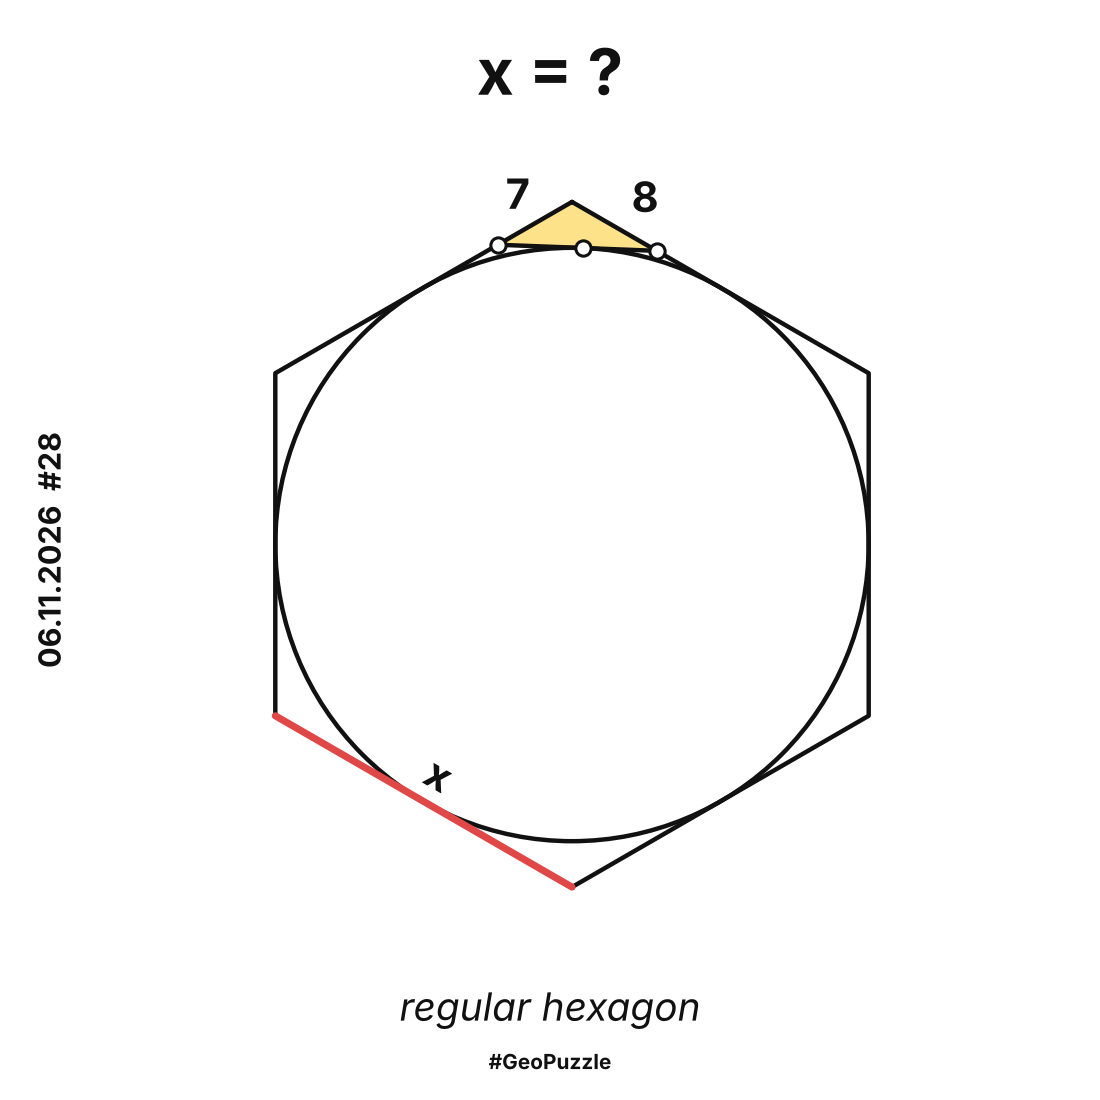
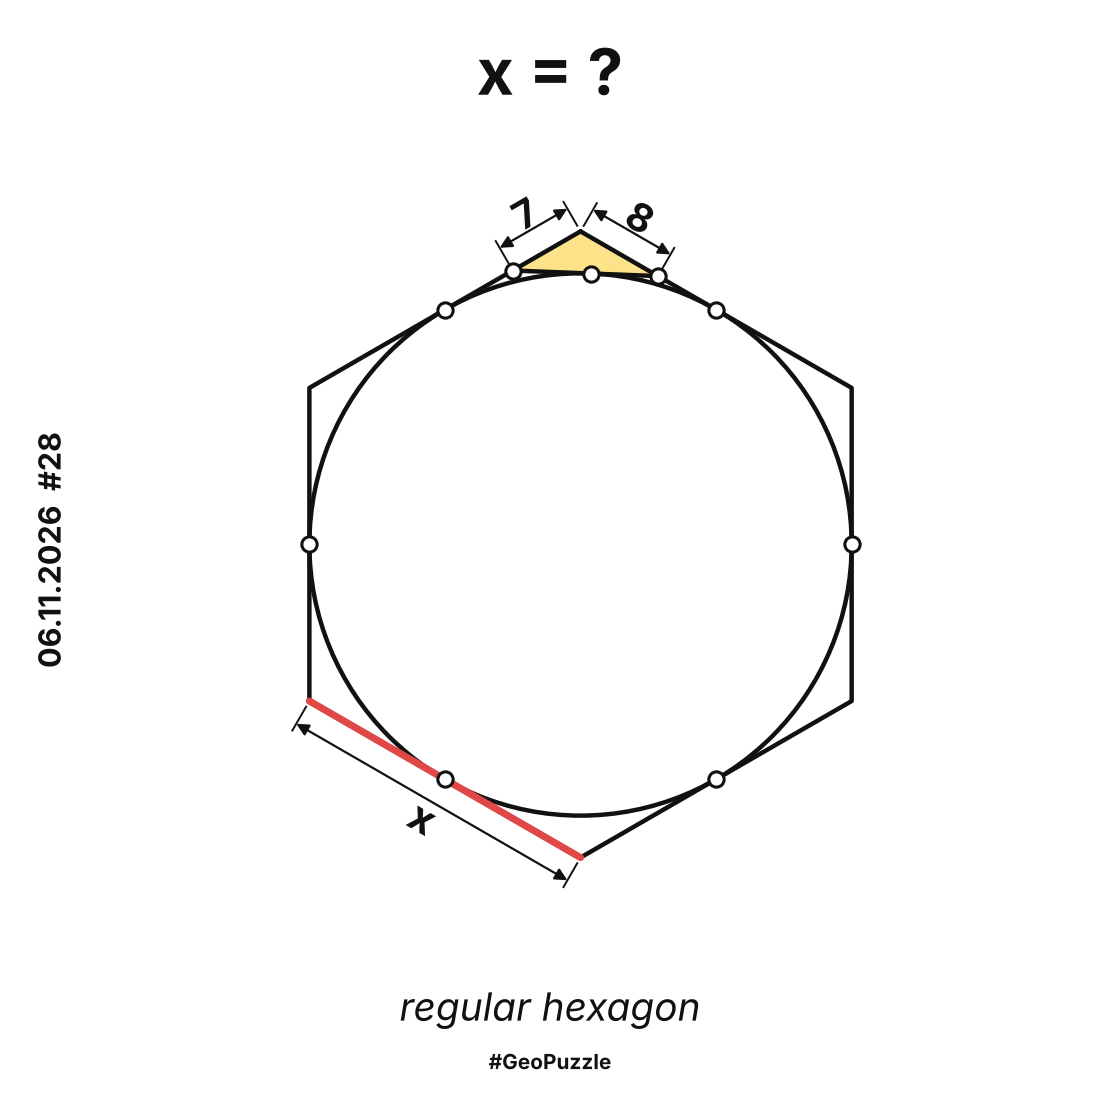
Georätsel-Serie 002 nach Kaltlösen und Kaltlesen überarbeitet
Maßlinien für alle Längen, Berührpunkte markiert, eindeutige Titel,
grüner Kreis bei #34 als ganze Scheibe mit erklärender Zeile;
Lösungsblatt mit Prüfbefunden und Einschätzung des Kaltlösers.

Claude-Session: https://claude.ai/code/session_0162FGHhki4SbxiLRQK3zCFd

Changed region(s): [[0.2473, 0.1545, 0.8036, 0.8036]]

diff --git a/georaetsel/002/nr-30.py b/georaetsel/002/nr-30.py
@@ -4,19 +4,19 @@ from _basis import *
 from shapely.geometry import Polygon as SP
 
 NR, KURZ = 30, "zwoelfeck"
-TITEL = {"de": [("Gesamtfläche = ?", TINTE)], "en": [("Total area = ?", TINTE)]}
+TITEL = {"de": [("Fläche des Zwölfecks = ?", TINTE)], "en": [("Area of the dodecagon = ?", TINTE)]}
 ZEILE = {"de": None, "en": None}
 STICHWORT = {"de": "regelmäßiges Zwölfeck", "en": "regular dodecagon"}
-ANTWORT = {"de": [("Gesamtfläche = 12", TINTE)], "en": [("Total area = 12", TINTE)]}
+ANTWORT = {"de": [("Fläche = 12", TINTE)], "en": [("Area = 12", TINTE)]}
 SCHRITTE = {
     "de": ["Zerlege das Zwölfeck vom Mittelpunkt aus in 12 gleiche Dreiecke mit 30° an der Spitze. Jedes hat die Fläche R · (R/2) : 2 = R²/4.",
            "Die blaue Kappe besteht aus drei solchen Dreiecken minus dem Dreieck aus Mittelpunkt und den Enden der Sehne. Dieses hat an der Spitze 3 · 30° = 90°, also die Fläche R · R : 2 = R²/2.",
            "Kappe = 3 · R²/4 − R²/2 = R²/4 – genau so groß wie eines der 12 Dreiecke.",
-           "Gesamtfläche = 12 · 1 = 12."],
+           "Zwölfeck = 12 · 1 = 12."],
     "en": ["Cut the dodecagon from the centre into 12 equal triangles with 30° at the tip. Each has area R · (R/2) : 2 = R²/4.",
            "The blue cap is three such triangles minus the triangle made of the centre and the ends of the chord. That one has 3 · 30° = 90° at the tip, so its area is R · R : 2 = R²/2.",
            "Cap = 3 · R²/4 − R²/2 = R²/4 – exactly as big as one of the 12 triangles.",
-           "Total area = 12 · 1 = 12."],
+           "Dodecagon = 12 · 1 = 12."],
 }
 
 def bau(R=2.0):

diff --git a/georaetsel/002/nr-33.py b/georaetsel/002/nr-33.py
@@ -45,16 +45,16 @@ def figur(ax, loesung=False):
     flaeche(ax, [A, B, C, D], GRUEN, kontur=False)
     kreis(ax, I, RAD)
     zug(ax, [A, B, C, D])
-    parallel(ax, A, B, t=0.75); parallel(ax, D, C, t=0.55)
+    parallel(ax, A, B, t=0.75); parallel(ax, D, C, t=0.25)
     TL, TR, TB, TT = fuss(I, A, D), fuss(I, B, C), fuss(I, A, B), fuss(I, D, C)
     for p in (TL, TR, TB, TT): punkt(ax, p)
-    an_strecke(ax, A, TL, "9", seite=1, abstand=4, groesse=30, drehen=False)
-    an_strecke(ax, TL, D, "4", seite=1, abstand=4, groesse=30, drehen=False)
-    an_strecke(ax, C, TR, "3", seite=1, abstand=4, groesse=30, drehen=False)
+    masslinie(ax, A, TL, "9", seite=1, abstand=5, groesse=28)
+    masslinie(ax, TL, D, "4", seite=1, abstand=5, groesse=28)
+    masslinie(ax, TR, C, "3", seite=-1, abstand=5, groesse=28)
     if loesung:
         punkt(ax, I, "rot")
         hilfslinie(ax, I, A); hilfslinie(ax, I, D); hilfslinie(ax, I, TL)
         hilfslinie(ax, I, B); hilfslinie(ax, I, C); hilfslinie(ax, I, TR)
         rechter_winkel(ax, I, A, D, groesse=3); rechter_winkel(ax, TL, I, D, groesse=2.5)
-        an_strecke(ax, TR, B, "12", seite=1, abstand=4, groesse=26, drehen=False)
+        masslinie(ax, B, TR, "12", seite=-1, abstand=5, groesse=24)
         an_strecke(ax, I, TL, "6", seite=1, abstand=2.5, groesse=24, drehen=False)

diff --git a/georaetsel/002/nr-29.py b/georaetsel/002/nr-29.py
@@ -4,7 +4,7 @@ from _basis import *
 from _geo import fuss, inkreis, flaeche as fl, abst
 
 NR, KURZ = 29, "drei-inkreise"
-TITEL = {"de": [("Fläche des Dreiecks = ?", TINTE)], "en": [("Area of the triangle = ?", TINTE)]}
+TITEL = {"de": [("Fläche des großen Dreiecks = ?", TINTE)], "en": [("Area of the large triangle = ?", TINTE)]}
 ZEILE = {"de": None, "en": None}
 STICHWORT = {"de": None, "en": None}
 ANTWORT = {"de": [("Fläche = 150", TINTE)], "en": [("Area = 150", TINTE)]}
@@ -51,7 +51,10 @@ def figur(ax, loesung=False):
     (m1, r1), (m2, r2) = inkreis(A, C, H), inkreis(C, B, H)
     kreis(ax, m1, r1, farbe=HELLBLAU); kreis(ax, m2, r2, farbe=HELLBLAU)
     zug(ax, [A, B, C]); linie(ax, C, H)
-    rechter_winkel(ax, C, B, A, groesse=3); rechter_winkel(ax, H, C, B, groesse=3)
+    rechter_winkel(ax, C, B, A, groesse=4.5); rechter_winkel(ax, H, C, B, groesse=3.5)
+    for (m, rr), seiten in ((inkreis(A, C, H), ((A, C), (C, H), (H, A))), (inkreis(C, B, H), ((C, B), (B, H), (H, C)))):
+        for a, b in seiten:
+            punkt(ax, fuss(m, a, b))
     for m, r, t in ((m1, r1, "3"), (m2, r2, "4")):
         f = fuss(m, A, B)
         linie(ax, m, f, lw=2.2); punkt(ax, m, "rot")

diff --git a/georaetsel/002/nr-34.py b/georaetsel/002/nr-34.py
@@ -5,7 +5,7 @@ from _geo import abst, inkreis
 
 NR, KURZ = 34, "drei-kreise"
 TITEL = {"de": [("Grün", GRUEN_TXT), (" = ?", TINTE)], "en": [("Green", GRUEN_TXT), (" = ?", TINTE)]}
-ZEILE = {"de": None, "en": None}
+ZEILE = {"de": "Der grüne Kreis geht durch die drei Berührpunkte.", "en": "The green circle passes through the three touching points."}
 STICHWORT = {"de": None, "en": None}
 ANTWORT = {"de": [("Grün", GRUEN_TXT), (" = 9π ≈ 28,3", TINTE)], "en": [("Green", GRUEN_TXT), (" = 9π ≈ 28.3", TINTE)]}
 SCHRITTE = {
@@ -53,9 +53,7 @@ def figur(ax, loesung=False):
     m, r = umkreis(*T)
     for o, rr in ((O1, R1), (O2, R2), (O3, R3)):
         kreis(ax, o, rr, farbe=HELLBLAU)
-    kreis(ax, m, r, farbe=GRUEN, z=4)
-    for o, rr in ((O1, R1), (O2, R2), (O3, R3)):
-        kreis(ax, o, rr, z=5)
+    kreis(ax, m, r, farbe=GRUEN, z=5)
     for p in T: punkt(ax, p)
     for o, rr, ziel, t in ((O1, R1, (-12.0, 0.0), "6"), (O2, R2, (12.0, 0.0), "6"), (O3, R3, (0.0, 12.0), "4")):
         linie(ax, o, ziel, lw=2.2, z=6); punkt(ax, o, "rot")

diff --git a/georaetsel/002/nr-28.py b/georaetsel/002/nr-28.py
@@ -56,11 +56,13 @@ def figur(ax, loesung=False):
     t = ((0-X[0])*dx + (0-X[1])*dy) / L2
     Tb = (X[0] + t*dx, X[1] + t*dy)
     punkt(ax, Tb)
-    an_strecke(ax, V, X, "8", seite=1, abstand=5, groesse=30, drehen=False)
-    an_strecke(ax, Y, V, "7", seite=1, abstand=5, groesse=30, drehen=False)
-    an_strecke(ax, E[3], E[2], "x", seite=-1, abstand=4.5, groesse=30)
+    masslinie(ax, V, X, "8", seite=1, abstand=4, groesse=28)
+    masslinie(ax, Y, V, "7", seite=1, abstand=4, groesse=28)
+    for k in range(6):
+        p, q = E[k], E[(k + 1) % 6]
+        punkt(ax, ((p[0] + q[0])/2, (p[1] + q[1])/2))
+    masslinie(ax, E[2], E[3], "x", seite=-1, abstand=4, groesse=30)
     linie(ax, E[2], E[3], farbe=ROT_TXT, lw=LW*1.6)
     if loesung:
         M1 = ((V[0]+E[5][0])/2, (V[1]+E[5][1])/2); M2 = ((V[0]+E[1][0])/2, (V[1]+E[1][1])/2)
-        for m in (M1, M2): punkt(ax, m)
         hilfslinie(ax, (0, 0), M1); hilfslinie(ax, (0, 0), M2); hilfslinie(ax, (0, 0), Tb)

diff --git a/georaetsel/002/nr-31.py b/georaetsel/002/nr-31.py
@@ -53,7 +53,7 @@ def figur(ax, loesung=False):
     zug(ax, [A, B, C, D]); linie(ax, D, P); linie(ax, A, F)
     rechter_winkel(ax, F, A, P, groesse=3)
     for p in (P, F): punkt(ax, p)
-    an_strecke(ax, A, F, "4", seite=-1, abstand=3, groesse=30)
+    masslinie(ax, A, F, "4", seite=1, abstand=5, groesse=30)
     masslinie(ax, D, P, "5", seite=1, abstand=5, groesse=30)
     if loesung:
         zahl(ax, ((A[0]+F[0]+D[0])/3, (A[1]+F[1]+D[1])/3), "4", groesse=28)

diff --git a/georaetsel/002/nr-32.py b/georaetsel/002/nr-32.py
@@ -19,7 +19,7 @@ SCHRITTE = {
            "The scale is 4 : 6 = 2 : 3 – the same for the radii. r : R = 2 : 3 (not 4 : 9!)."],
 }
 
-def bau(unten=9.0, oben=4.0, x1=0.8):
+def bau(unten=9.0, oben=4.0, x1=-0.6):
     m = math.sqrt(unten*oben)
     # unteres Teiltrapez: Grundseite unten (0,0)-(unten,0), oben Breite m bei Höhe H; Tangentenbedingung: Schenkel = unten + m
     d = unten - m

diff --git a/georaetsel/002/loesungen.md b/georaetsel/002/loesungen.md
@@ -9,16 +9,16 @@ Erstellt mit `/georaetsel`. Jede Karte gibt es als Aufgabe und als Lösung, auf 
 
 ## Übersicht
 
-| Nr. | Titel | Aha | Was ist neu? | Bekanntheit | Lösung | Stufe |
+| Nr. | Titel | Aha | Was ist neu? | Bekanntheit | Lösung | Stufe (geplant / Kaltlöser) |
 |---|---|---|---|---|---|---|
-| 27 | Gelb = ? | Die Spitze wandert parallel zur Diagonale – P darf man in die Ecke schieben | Quadrat über AP an ein Quadrat angesetzt, gefragt ist das Dreieck ACQ | c | 16 | schwer |
-| 28 | x = ? | Umfang des abgeschnittenen Dreiecks = Seite; dritte Seite aus 120° | Sechseck statt Quadrat/Viertelkreis, versteckte 7-8-13-Kombination | b | 28 | schwer |
-| 29 | Fläche des Dreiecks = ? | Pythagoras gilt auch für die Inkreisradien, dann 3-4-5-Form | Gefragt ist die Fläche, zwei Ähnlichkeitsschritte | b | 150 | schwer |
-| 30 | Gesamtfläche = ? | Die Kappe über drei Seiten ist genau ein Zwölftel | Klassiker „Zwölfeck = 3R²“ umgedreht | b | 12 | schwer |
-| 31 | Grün = ? | Dreieck ADP = halbes Quadrat, also AF · DP = Seite² | Viereck statt Dreieck gefragt – zusätzliche Schritte | b | 11 | schwer |
-| 32 | r : R = ? | Streckung vom Schnittpunkt der Schenkel: Mittellinie = √(4 · 9) = 6 | Zwei gestapelte Inkreise; Falle 4 : 9 | b | 2 : 3 | schwer |
-| 33 | Fläche des Trapezes = ? | r² = Produkt der Schenkelstücke (Höhensatz), zweimal | Schiefes Trapez, nur Berührstücke gegeben | b | 168 | schwer |
-| 34 | Grün = ? | Kreis durch die Berührpunkte = Inkreis des Mittelpunktsdreiecks | Gefragt ist der Kreis, nicht das Dreieck der Berührpunkte | b | 9π ≈ 28,3 | schwer |
+| 27 | Gelb = ? | Die Spitze wandert parallel zur Diagonale – P darf man in die Ecke schieben | Quadrat über AP an ein Quadrat angesetzt, gefragt ist das Dreieck ACQ | c | 16 | schwer / mittel |
+| 28 | x = ? | Umfang des abgeschnittenen Dreiecks = Seite; dritte Seite aus 120° | Sechseck statt Quadrat/Viertelkreis, versteckte 7-8-13-Kombination | b | 28 | schwer / mittel–schwer |
+| 29 | Fläche des großen Dreiecks = ? | Pythagoras gilt auch für die Inkreisradien, dann 3-4-5-Form | Gefragt ist die Fläche, zwei Ähnlichkeitsschritte | b | 150 | schwer / mittel |
+| 30 | Fläche des Zwölfecks = ? | Die Kappe über drei Seiten ist genau ein Zwölftel | Klassiker „Zwölfeck = 3R²“ umgedreht | b | 12 | schwer / mittel |
+| 31 | Grün = ? | Dreieck ADP = halbes Quadrat, also AF · DP = Seite² | Viereck statt Dreieck gefragt – zusätzliche Schritte | b | 11 | schwer / mittel |
+| 32 | r : R = ? | Streckung vom Schnittpunkt der Schenkel: Mittellinie = √(4 · 9) = 6 | Zwei gestapelte Inkreise; Falle 4 : 9 | b | 2 : 3 | schwer / mittel |
+| 33 | Fläche des Trapezes = ? | r² = Produkt der Schenkelstücke (Höhensatz), zweimal | Schiefes Trapez, nur Berührstücke gegeben | b | 168 | schwer / mittel–schwer |
+| 34 | Grün = ? | Kreis durch die Berührpunkte = Inkreis des Mittelpunktsdreiecks | Gefragt ist der Kreis, nicht das Dreieck der Berührpunkte | b | 9π ≈ 28,3 | schwer / mittel |
 
 Bekanntheit: b = verwandte Aufgabe bekannt, aber hier ist ein zusätzlicher Gedanke nötig; c = als Rätselkarte unbekannt.
 
@@ -30,7 +30,7 @@ Bekanntheit: b = verwandte Aufgabe bekannt, aber hier ist ein zusätzlicher Geda
 
 **#29 Fläche = 150.** Die zwei Teildreiecke und das ganze Dreieck haben dieselbe Form; ihre Inkreisradien verhalten sich wie die langen Seiten. Darum gilt Pythagoras auch für die Radien: 3² + 4² = 5². Das Dreieck hat die Form 3-4-5 (Inkreisradius 1) und ist 5-mal so groß: 15, 20, 25. Fläche 150.
 
-**#30 Gesamtfläche = 12.** Das Zwölfeck besteht aus 12 Mittelpunktsdreiecken mit je R²/4. Die Kappe ist drei solche Dreiecke minus das rechtwinklige Dreieck aus Mittelpunkt und Sehnenenden (R²/2): 3 · R²/4 − R²/2 = R²/4. Die Kappe ist also ein Zwölftel: Gesamtfläche 12.
+**#30 Fläche = 12.** Das Zwölfeck besteht aus 12 Mittelpunktsdreiecken mit je R²/4. Die Kappe ist drei solche Dreiecke minus das rechtwinklige Dreieck aus Mittelpunkt und Sehnenenden (R²/2): 3 · R²/4 − R²/2 = R²/4. Die Kappe ist also ein Zwölftel: Gesamtfläche 12.
 
 **#31 Grün = 11.** Das Dreieck aus linker Seite und Punkt rechts ist ein halbes Quadrat und hat die Fläche 5 · 4 : 2 = 10. Also ist das Quadrat 20. Links fehlt Grün das Dreieck 4 · 2 : 2 = 4 (Pythagoras), oben rechts das Dreieck √20 · √5 : 2 = 5. Grün = 20 − 4 − 5 = 11.
 
@@ -43,3 +43,5 @@ Bekanntheit: b = verwandte Aufgabe bekannt, aber hier ist ein zusätzlicher Geda
 ## Prüfungen
 - Jede Lösung mit 10–40 zufälligen Figuren nachgerechnet (`nr-XX.py`, Funktion `pruefen`), Eindeutigkeit geprüft.
 - Ideen: 20 Kandidaten (4 aus dieser Sitzung, 16 vom Ideengeber). Die Bekanntheitsprüfung hat 12 als Standardrätsel aussortiert, darunter auch eine eigene Idee („Pizza-Satz“ im gleichseitigen Dreieck).
+- Kaltlösen (Opus): alle 8 Karten nur aus dem Bild richtig gelöst, keine mehrdeutig. Er stuft die meisten als „mittel“ ein und hält #29, #31, #32 und #33 für eher bekannte Motive (die Bekanntheitsprüfung hatte sie als „verwandt, aber mit neuem Gedanken“ eingestuft).
+- Kaltlesen (Sonnet) und zweiter Durchgang: Maßlinien für 7, 8 und x (#28), 4 und 5 (#31), 4, 9, 3 (#33); alle Berührpunkte markiert (#28, #29); grüner Kreis als ganze Scheibe obenauf und Zeile „Der grüne Kreis geht durch die drei Berührpunkte.“ (#34); getrennte Berührpunkte an der Mittellinie (#32); Titel „Fläche des großen Dreiecks“ (#29) und „Fläche des Zwölfecks“ (#30).
